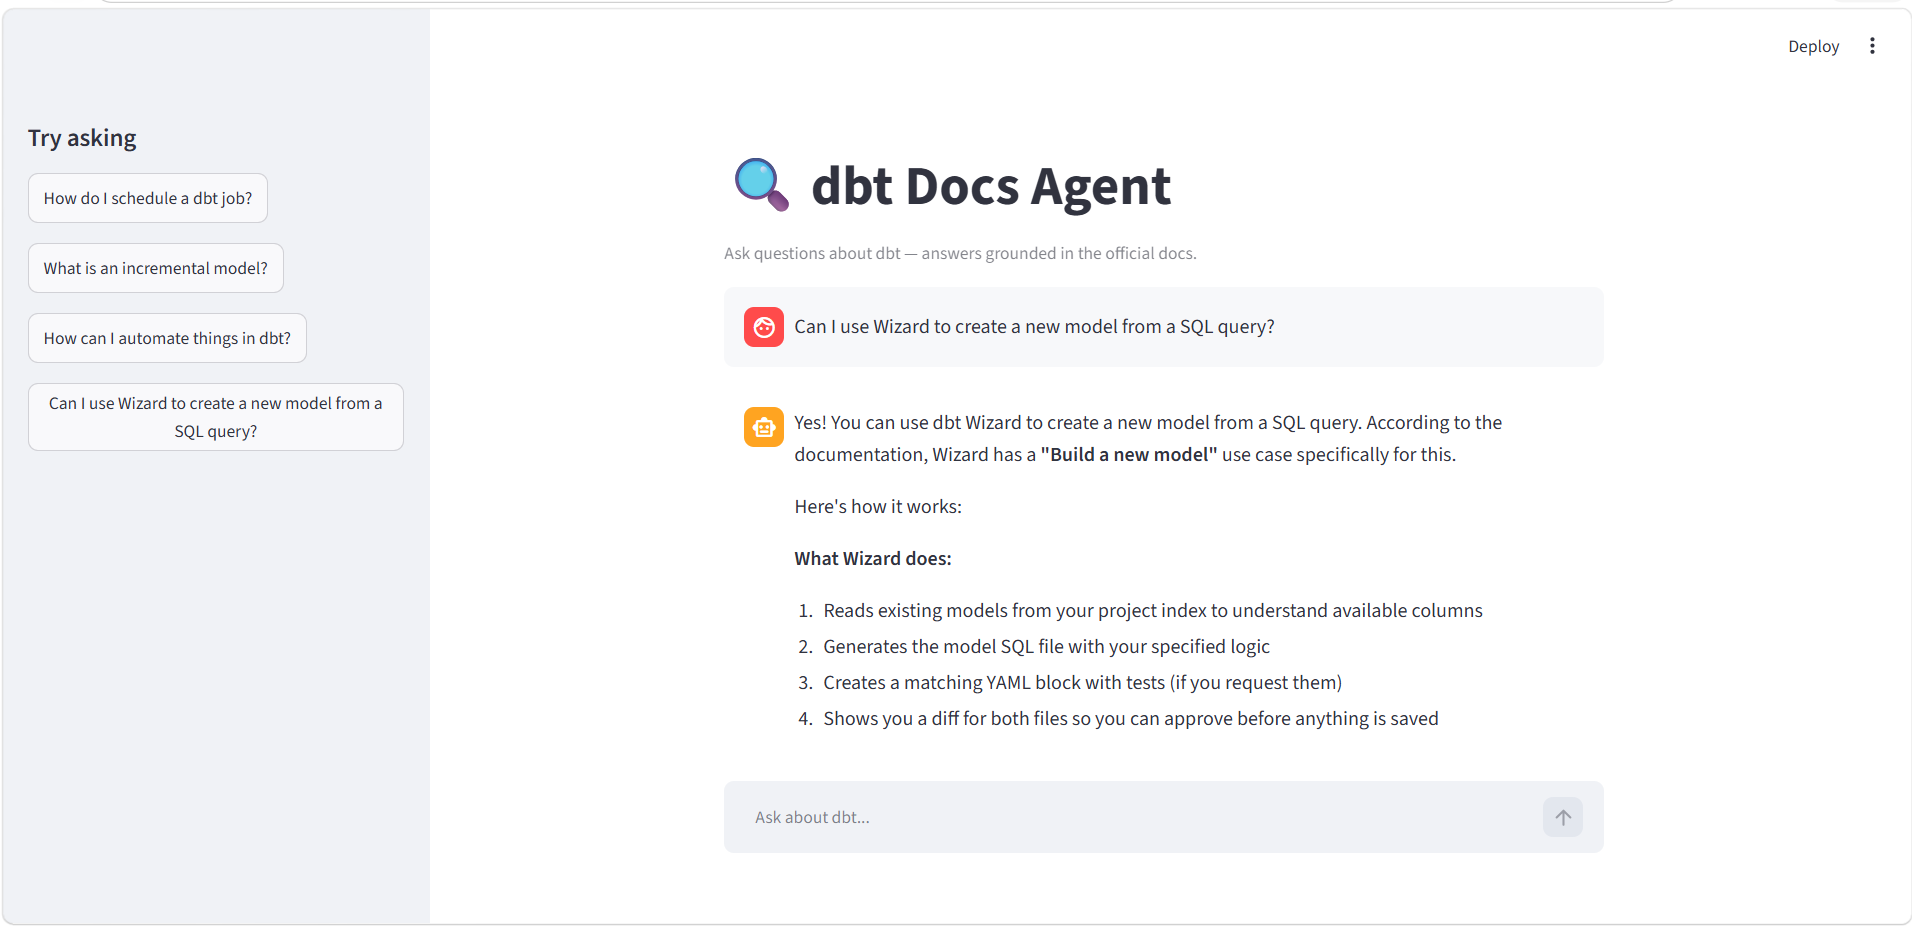
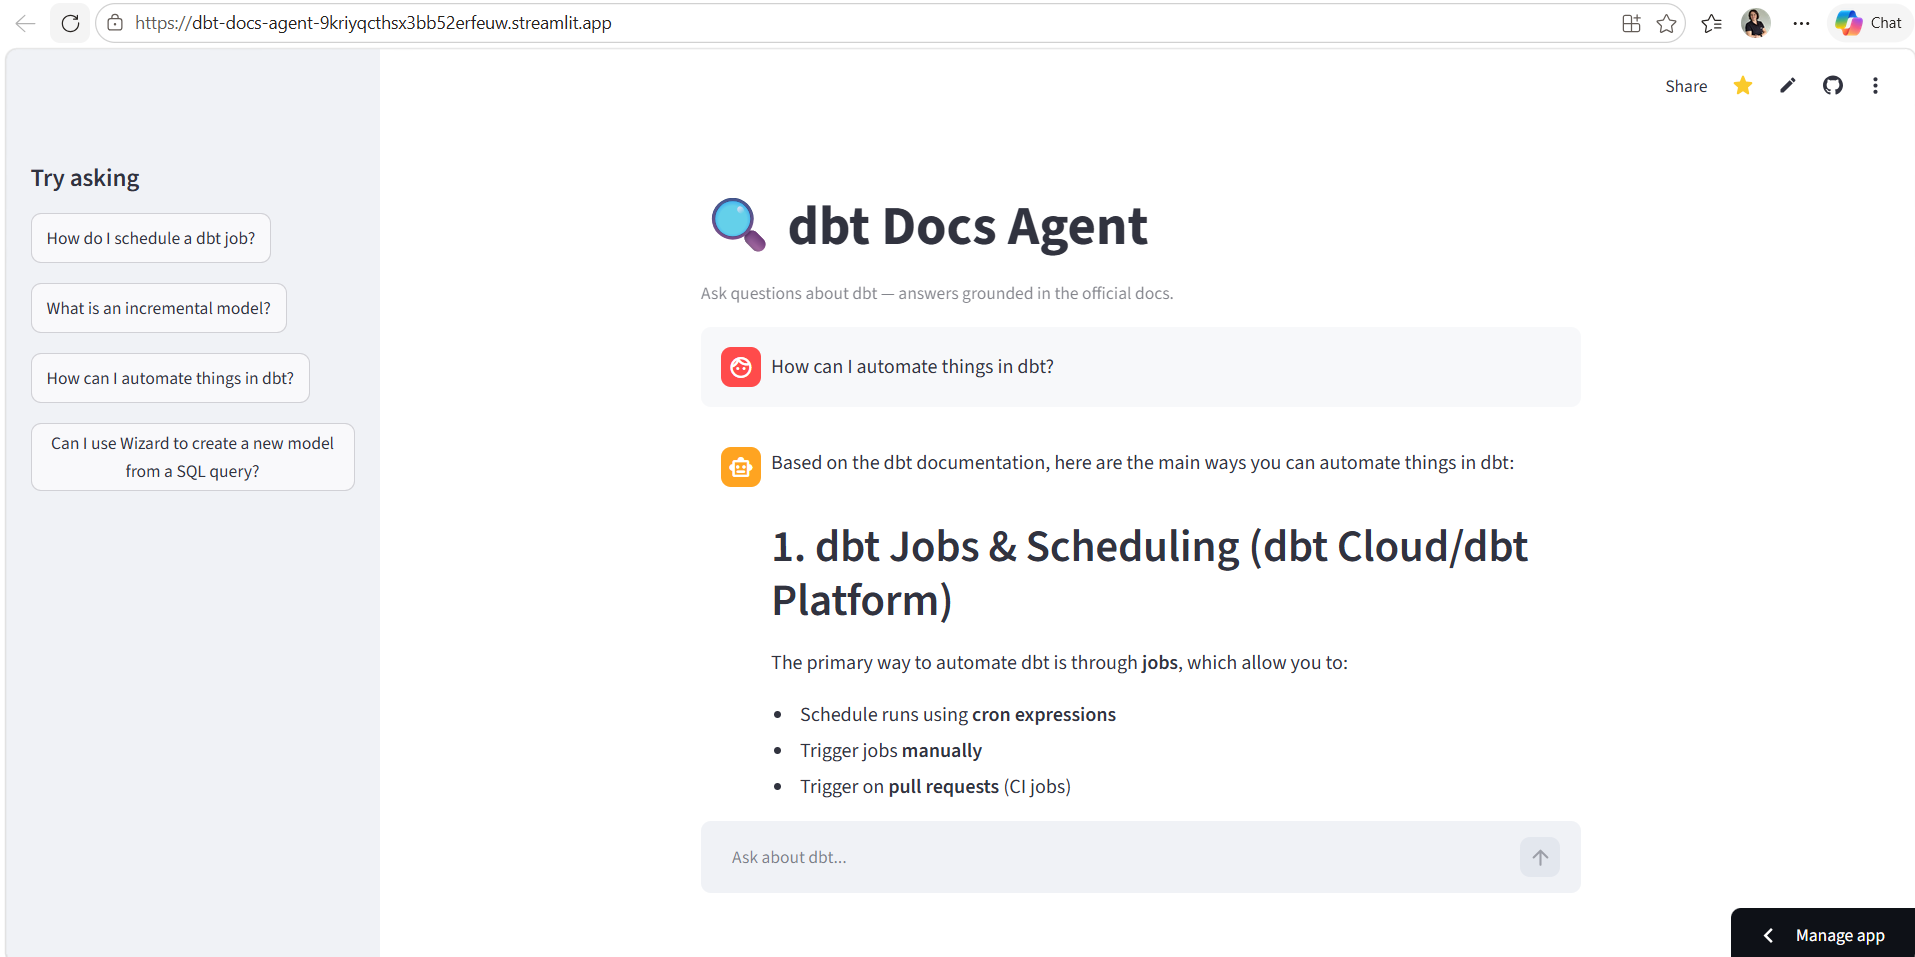
Demo and images added

diff --git a/README.md b/README.md
@@ -15,9 +15,9 @@ several searches), and answers with citations to the source files.
 
 ## Demo
 
-![demo](demo.gif)
+![alt text](streamlit-app-2026-07-30-21-24-22-ezgif.com-optimize.gif)
 
-![alt text](image.png)
+
 
 
 ## How it works
@@ -55,7 +55,7 @@ python pipeline.py        # or run the pipeline notebook
 streamlit run app.py
 ```
 
-Opens at http://localhost:8501.
+Opens at https://dbt-docs-agent-9kriyqcthsx3bb52erfeuw.streamlit.app/.
 
 ## Evaluation results
 
